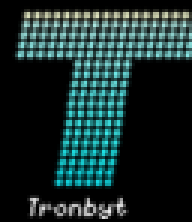
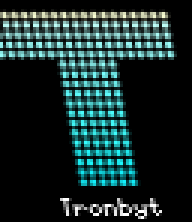
perf(filter): improve rotate/shear filters (#337)
* perf(filter): improve rotate/shear filters

* fix(filter): invert shear direction

* fix(filter): remove required for shear angles

* fix(gen): panic when optional floats are not set

* chore(filter): use `gg.Radians`

* chore(filter): clean up duplicate code

diff --git a/runtime/modules/filter_runtime/generated.go b/runtime/modules/filter_runtime/generated.go
@@ -98,7 +98,7 @@ func newBlur(
 	w.starlarkRadius = radius
 	if val, ok := starlark.AsFloat(w.starlarkRadius); ok {
 		w.Radius = val
-	} else {
+	} else if w.starlarkRadius != nil {
 		return nil, fmt.Errorf("expected number, but got: %s", w.starlarkRadius.String())
 	}
 
@@ -230,7 +230,7 @@ func newBrightness(
 	w.starlarkChange = change
 	if val, ok := starlark.AsFloat(w.starlarkChange); ok {
 		w.Change = val
-	} else {
+	} else if w.starlarkChange != nil {
 		return nil, fmt.Errorf("expected number, but got: %s", w.starlarkChange.String())
 	}
 
@@ -362,7 +362,7 @@ func newContrast(
 	w.starlarkFactor = factor
 	if val, ok := starlark.AsFloat(w.starlarkFactor); ok {
 		w.Factor = val
-	} else {
+	} else if w.starlarkFactor != nil {
 		return nil, fmt.Errorf("expected number, but got: %s", w.starlarkFactor.String())
 	}
 
@@ -494,7 +494,7 @@ func newEdgeDetection(
 	w.starlarkRadius = radius
 	if val, ok := starlark.AsFloat(w.starlarkRadius); ok {
 		w.Radius = val
-	} else {
+	} else if w.starlarkRadius != nil {
 		return nil, fmt.Errorf("expected number, but got: %s", w.starlarkRadius.String())
 	}
 
@@ -983,7 +983,7 @@ func newGamma(
 	w.starlarkGamma = gamma
 	if val, ok := starlark.AsFloat(w.starlarkGamma); ok {
 		w.Gamma.Gamma = val
-	} else {
+	} else if w.starlarkGamma != nil {
 		return nil, fmt.Errorf("expected number, but got: %s", w.starlarkGamma.String())
 	}
 
@@ -1234,7 +1234,7 @@ func newHue(
 	w.starlarkChange = change
 	if val, ok := starlark.AsFloat(w.starlarkChange); ok {
 		w.Change = val
-	} else {
+	} else if w.starlarkChange != nil {
 		return nil, fmt.Errorf("expected number, but got: %s", w.starlarkChange.String())
 	}
 
@@ -1485,7 +1485,7 @@ func newRotate(
 	w.starlarkAngle = angle
 	if val, ok := starlark.AsFloat(w.starlarkAngle); ok {
 		w.Angle = val
-	} else {
+	} else if w.starlarkAngle != nil {
 		return nil, fmt.Errorf("expected number, but got: %s", w.starlarkAngle.String())
 	}
 
@@ -1617,7 +1617,7 @@ func newSaturation(
 	w.starlarkFactor = factor
 	if val, ok := starlark.AsFloat(w.starlarkFactor); ok {
 		w.Factor = val
-	} else {
+	} else if w.starlarkFactor != nil {
 		return nil, fmt.Errorf("expected number, but got: %s", w.starlarkFactor.String())
 	}
 
@@ -1967,8 +1967,8 @@ func newShear(
 		"Shear",
 		args, kwargs,
 		"child", &child,
-		"x_angle", &x_angle,
-		"y_angle", &y_angle,
+		"x_angle?", &x_angle,
+		"y_angle?", &y_angle,
 	); err != nil {
 		return nil, fmt.Errorf("unpacking arguments for Shear: %s", err)
 	}
@@ -1990,14 +1990,14 @@ func newShear(
 	w.starlarkXAngle = x_angle
 	if val, ok := starlark.AsFloat(w.starlarkXAngle); ok {
 		w.XAngle = val
-	} else {
+	} else if w.starlarkXAngle != nil {
 		return nil, fmt.Errorf("expected number, but got: %s", w.starlarkXAngle.String())
 	}
 
 	w.starlarkYAngle = y_angle
 	if val, ok := starlark.AsFloat(w.starlarkYAngle); ok {
 		w.YAngle = val
-	} else {
+	} else if w.starlarkYAngle != nil {
 		return nil, fmt.Errorf("expected number, but got: %s", w.starlarkYAngle.String())
 	}
 
@@ -2132,7 +2132,7 @@ func newThreshold(
 	w.starlarkLevel = level
 	if val, ok := starlark.AsFloat(w.starlarkLevel); ok {
 		w.Level = val
-	} else {
+	} else if w.starlarkLevel != nil {
 		return nil, fmt.Errorf("expected number, but got: %s", w.starlarkLevel.String())
 	}
 

diff --git a/render/filter/shear.go b/render/filter/shear.go
@@ -4,7 +4,6 @@ import (
 	"image"
 	"math"
 
-	"github.com/anthonynsimon/bild/transform"
 	"github.com/tronbyt/gg"
 	"github.com/tronbyt/pixlet/render"
 )
@@ -20,14 +19,13 @@ import (
 //	filter.Shear(
 //	    child = render.Image(src="...", width=64, height=64),
 //	    x_angle = 10.0,
-//	    y_angle = 0.0,
 //	)
 //
 // EXAMPLE END
 type Shear struct {
 	render.Widget `starlark:"child,required"`
-	XAngle        float64 `starlark:"x_angle,required"`
-	YAngle        float64 `starlark:"y_angle,required"`
+	XAngle        float64 `starlark:"x_angle"`
+	YAngle        float64 `starlark:"y_angle"`
 }
 
 func (s Shear) PaintBounds(bounds image.Rectangle, frameIdx int) image.Rectangle {
@@ -40,26 +38,26 @@ func (s Shear) PaintBounds(bounds image.Rectangle, frameIdx int) image.Rectangle
 	nh := h
 
 	if s.XAngle != 0 {
-		rad := s.XAngle * math.Pi / 180
-		nw += h * math.Abs(math.Tan(rad))
+		nw += h * math.Abs(math.Tan(gg.Radians(s.XAngle)))
 	}
 
 	if s.YAngle != 0 {
-		rad := s.YAngle * math.Pi / 180
-		nh += w * math.Abs(math.Tan(rad))
+		nh += w * math.Abs(math.Tan(gg.Radians(s.YAngle)))
 	}
 
 	return image.Rect(0, 0, int(math.Ceil(nw)), int(math.Ceil(nh)))
 }
 
 func (s Shear) Paint(dc *gg.Context, bounds image.Rectangle, frameIdx int) {
-	paint(dc, s.Widget, bounds, frameIdx, func(img image.Image) image.Image {
-		if s.XAngle != 0 {
-			img = transform.ShearH(img, s.XAngle)
-		}
-		if s.YAngle != 0 {
-			img = transform.ShearV(img, s.YAngle)
-		}
-		return img
+	var sx, sy float64
+	if s.XAngle != 0 {
+		sx = math.Tan(gg.Radians(s.XAngle))
+	}
+	if s.YAngle != 0 {
+		sy = math.Tan(gg.Radians(s.YAngle))
+	}
+
+	paintWithTransform(dc, s.Widget, bounds, frameIdx, func(dc *gg.Context) {
+		dc.Shear(sx, sy)
 	})
 }

diff --git a/runtime/modules/animation_runtime/generated.go b/runtime/modules/animation_runtime/generated.go
@@ -452,7 +452,7 @@ func newRotate(
 	w.starlarkAngle = angle
 	if val, ok := starlark.AsFloat(w.starlarkAngle); ok {
 		w.Angle = val
-	} else {
+	} else if w.starlarkAngle != nil {
 		return nil, fmt.Errorf("expected number, but got: %s", w.starlarkAngle.String())
 	}
 
@@ -515,14 +515,14 @@ func newScale(
 	w.starlarkX = x
 	if val, ok := starlark.AsFloat(w.starlarkX); ok {
 		w.X = val
-	} else {
+	} else if w.starlarkX != nil {
 		return nil, fmt.Errorf("expected number, but got: %s", w.starlarkX.String())
 	}
 
 	w.starlarkY = y
 	if val, ok := starlark.AsFloat(w.starlarkY); ok {
 		w.Y = val
-	} else {
+	} else if w.starlarkY != nil {
 		return nil, fmt.Errorf("expected number, but got: %s", w.starlarkY.String())
 	}
 
@@ -853,14 +853,14 @@ func newTranslate(
 	w.starlarkX = x
 	if val, ok := starlark.AsFloat(w.starlarkX); ok {
 		w.X = val
-	} else {
+	} else if w.starlarkX != nil {
 		return nil, fmt.Errorf("expected number, but got: %s", w.starlarkX.String())
 	}
 
 	w.starlarkY = y
 	if val, ok := starlark.AsFloat(w.starlarkY); ok {
 		w.Y = val
-	} else {
+	} else if w.starlarkY != nil {
 		return nil, fmt.Errorf("expected number, but got: %s", w.starlarkY.String())
 	}
 

diff --git a/render/filter/rotate.go b/render/filter/rotate.go
@@ -4,7 +4,6 @@ import (
 	"image"
 	"math"
 
-	"github.com/anthonynsimon/bild/transform"
 	"github.com/tronbyt/gg"
 	"github.com/tronbyt/pixlet/render"
 )
@@ -33,7 +32,7 @@ func (r Rotate) PaintBounds(bounds image.Rectangle, frameIdx int) image.Rectangl
 	// Calculate rotated bounds
 	// Width' = Width * |cos A| + Height * |sin A|
 	// Height' = Width * |sin A| + Height * |cos A|
-	rad := r.Angle * math.Pi / 180
+	rad := gg.Radians(r.Angle)
 	cos := math.Abs(math.Cos(rad))
 	sin := math.Abs(math.Sin(rad))
 
@@ -47,9 +46,7 @@ func (r Rotate) PaintBounds(bounds image.Rectangle, frameIdx int) image.Rectangl
 }
 
 func (r Rotate) Paint(dc *gg.Context, bounds image.Rectangle, frameIdx int) {
-	paint(dc, r.Widget, bounds, frameIdx, func(img image.Image) image.Image {
-		// Rotate returns an image.RGBA, resizing options can be passed.
-		// passing ResizeBounds: true so the image expands to fit the rotated content.
-		return transform.Rotate(img, r.Angle, &transform.RotationOptions{ResizeBounds: true})
+	paintWithTransform(dc, r.Widget, bounds, frameIdx, func(dc *gg.Context) {
+		dc.Rotate(gg.Radians(r.Angle))
 	})
 }

diff --git a/render/filter/filter.go b/render/filter/filter.go
@@ -38,3 +38,25 @@ func paint(dc *gg.Context, w render.Widget, bounds image.Rectangle, frameIdx int
 	// Draw the result onto the main context
 	dc.DrawImage(res, dx, dy)
 }
+
+func paintWithTransform(dc *gg.Context, w render.Widget, bounds image.Rectangle, frameIdx int, applyTransform func(dc *gg.Context)) {
+	cb := w.PaintBounds(bounds, frameIdx)
+
+	cx := float64(bounds.Min.X) + float64(bounds.Dx())/2.0
+	cy := float64(bounds.Min.Y) + float64(bounds.Dy())/2.0
+
+	dc.Push()
+	defer dc.Pop()
+
+	// Center transform origin
+	dc.Translate(cx, cy)
+
+	// Apply the specific transformation
+	applyTransform(dc)
+
+	// Translate to child's origin
+	dc.Translate(float64(-cb.Dx())/2.0, float64(-cb.Dy())/2.0)
+
+	// Paint child at (0,0) relative to the transformed origin
+	w.Paint(dc, image.Rect(0, 0, cb.Dx(), cb.Dy()), frameIdx)
+}

diff --git a/runtime/gen/filter_images/main.go b/runtime/gen/filter_images/main.go
@@ -107,7 +107,6 @@ filter.Sharpen(
 filter.Shear(
     child = %s,
     x_angle = 10.0,
-    y_angle = 0.0,
 )
 `,
 		"filter_Threshold_0": `

diff --git a/docs/filters.md b/docs/filters.md
@@ -275,15 +275,14 @@ Shear shears the child widget horizontally and/or vertically.
 | Name | Type | Description | Required |
 | --- | --- | --- | --- |
 | `child` | `Widget` | The widget to shear. | **Y** |
-| `x_angle` | `float / int` | The angle to shear horizontally in degrees. | **Y** |
-| `y_angle` | `float / int` | The angle to shear vertically in degrees. | **Y** |
+| `x_angle` | `float / int` | The angle to shear horizontally in degrees. | N |
+| `y_angle` | `float / int` | The angle to shear vertically in degrees. | N |
 
 #### Example
 ```starlark
 filter.Shear(
     child = render.Image(src="...", width=64, height=64),
     x_angle = 10.0,
-    y_angle = 0.0,
 )
 ```
 ![Shear Example](img/filter_Shear_0.webp)
